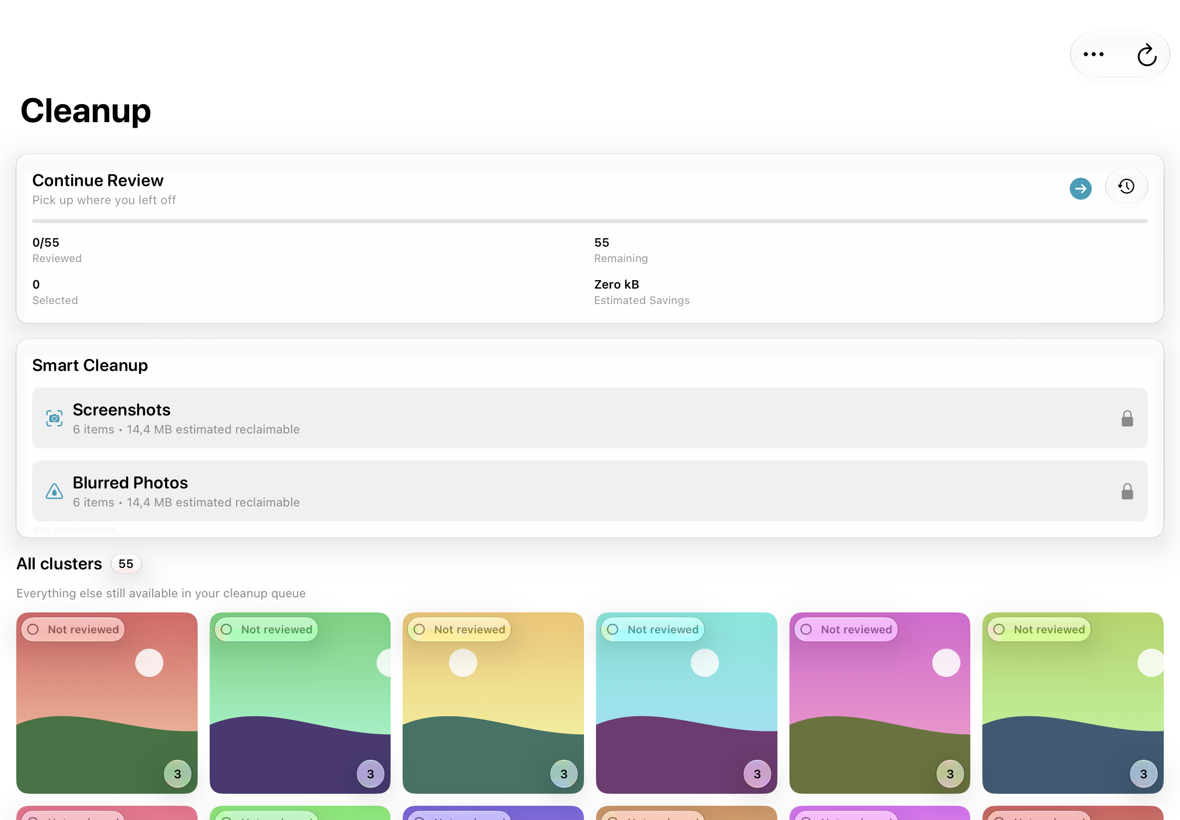
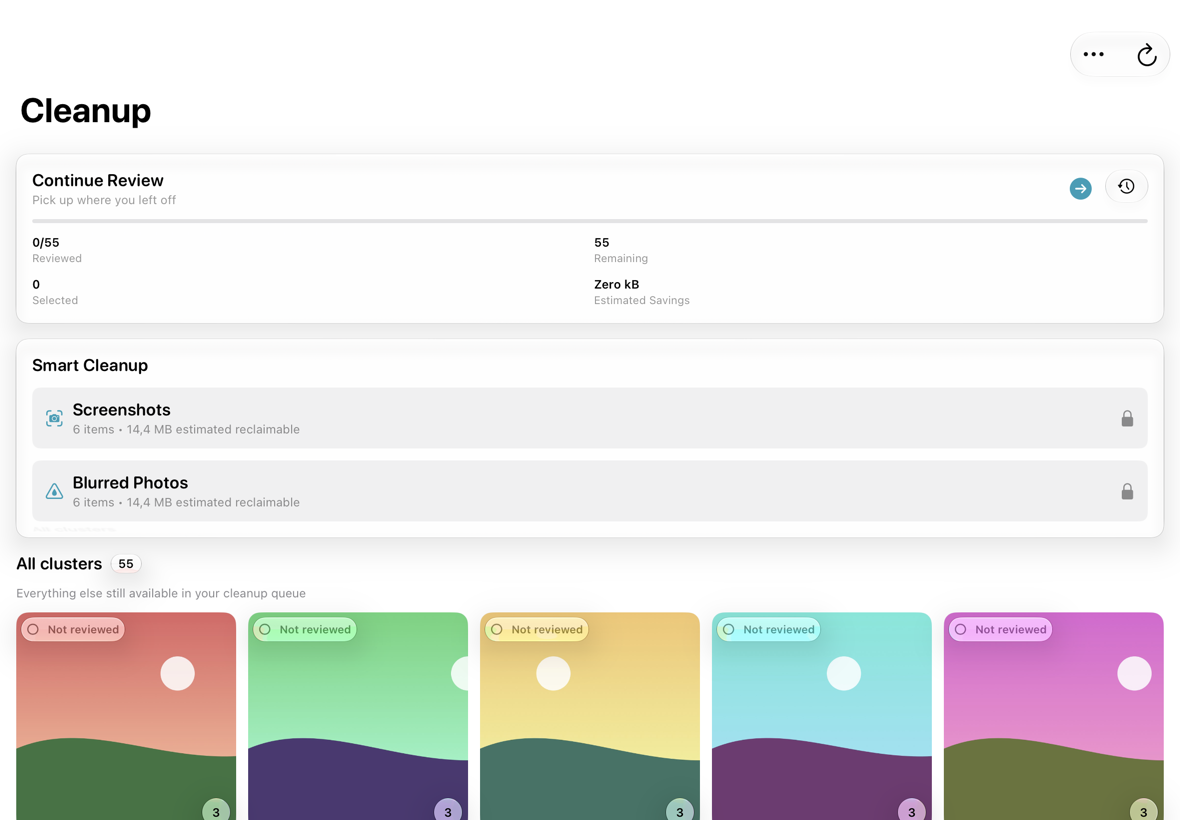
🐛 DesignSystem: count padding and gaps in the iPad grid width
Codex review of #265: the column range divided the whole width by the
tile limits, so 9 columns at 1376 pt gave 139 pt tiles in Cleanup, under
the 150 pt minimum. The range now subtracts the screen padding (32 pt)
and the gaps (12 pt): 1180 pt gets 4-7 columns, default 5; 1376 pt gets
5-8, default 6. The test checks tile widths with the same padding and
gaps, and ADR-0005 and the captures show the new defaults.

Changed region(s): [[0.0, 0.7317, 1.0, 1.0]]

diff --git a/Packages/DesignSystem/Sources/DesignSystem/Layout/AdaptivePhotoGridLayout.swift b/Packages/DesignSystem/Sources/DesignSystem/Layout/AdaptivePhotoGridLayout.swift
@@ -25,19 +25,34 @@ public struct AdaptivePhotoGridLayoutPolicy: Equatable, Sendable {
         public static let maximum: CGFloat = 320
         /// The width the default column count aims for.
         public static let preferred: CGFloat = 200
+        /// Side padding of a grid screen, both sides together (Cleanup: 16 + 16).
+        public static let containerInset: CGFloat = 32
+        /// The widest gap between 2 tiles in a grid screen (Cleanup: 12 pt).
+        public static let gap: CGFloat = 12
+
+        /// The tile width with `columns` columns in a container of `width` points.
+        public static func tileWidth(columns: Int, containerWidth width: CGFloat) -> CGFloat {
+            (width - containerInset - CGFloat(columns - 1) * gap) / CGFloat(columns)
+        }
     }
 
     /// The regular-width policy for a container of `width` points: as many
     /// columns as keep each tile between ``TileWidth/minimum`` and
-    /// ``TileWidth/maximum``, defaulting to about ``TileWidth/preferred``.
+    /// ``TileWidth/maximum``, after the screen's padding and gaps, defaulting
+    /// to about ``TileWidth/preferred``.
     ///
     /// Falls back to ``regular`` when the width is unknown or too small to hold
     /// 2 minimum tiles.
     public static func regular(containerWidth width: CGFloat?) -> AdaptivePhotoGridLayoutPolicy {
-        guard let width, width.isFinite, width >= TileWidth.minimum * 2 else { return .regular }
-        let most = max(2, Int((width / TileWidth.minimum).rounded(.down)))
-        let fewest = min(most, max(2, Int((width / TileWidth.maximum).rounded(.up))))
-        let preferred = Int((width / TileWidth.preferred).rounded())
+        guard let width, width.isFinite,
+              TileWidth.tileWidth(columns: 2, containerWidth: width) >= TileWidth.minimum
+        else { return .regular }
+        // n tiles and n - 1 gaps fit in the width without the padding:
+        // n * tile + (n - 1) * gap <= width - inset  <=>  n <= (width - inset + gap) / (tile + gap)
+        let usable = width - TileWidth.containerInset + TileWidth.gap
+        let most = max(2, Int((usable / (TileWidth.minimum + TileWidth.gap)).rounded(.down)))
+        let fewest = min(most, max(2, Int((usable / (TileWidth.maximum + TileWidth.gap)).rounded(.up))))
+        let preferred = Int((usable / (TileWidth.preferred + TileWidth.gap)).rounded())
         return AdaptivePhotoGridLayoutPolicy(
             columnCounts: fewest...most,
             defaultColumnCount: min(max(preferred, fewest), most)

diff --git a/Packages/DesignSystem/Tests/DesignSystemTests/AdaptivePhotoGridLayoutTests.swift b/Packages/DesignSystem/Tests/DesignSystemTests/AdaptivePhotoGridLayoutTests.swift
@@ -19,11 +19,11 @@ struct AdaptivePhotoGridLayoutTests {
 struct AdaptivePhotoGridWidthTests {
     @Test(arguments: [
         // width, range, default
-        (CGFloat(820), 3...5, 4), // iPad (A16) portrait
+        (CGFloat(820), 3...4, 4), // iPad (A16) portrait
         (834, 3...5, 4), // iPad Pro 11-inch portrait
         (1_024, 4...6, 5), // iPad Air 13-inch portrait
-        (1_180, 4...7, 6), // iPad (A16) landscape
-        (1_376, 5...9, 7), // iPad Pro 13-inch landscape
+        (1_180, 4...7, 5), // iPad (A16) landscape
+        (1_376, 5...8, 6), // iPad Pro 13-inch landscape
     ])
     func testRangeAndDefaultFollowTheWidth(width: CGFloat, range: ClosedRange<Int>, defaultCount: Int) {
         let policy = AdaptivePhotoGridLayoutPolicy.regular(containerWidth: width)
@@ -35,14 +35,15 @@ struct AdaptivePhotoGridWidthTests {
     func testEveryChoiceKeepsTilesBetweenTheLimits(width: CGFloat) {
         let policy = AdaptivePhotoGridLayoutPolicy.regular(containerWidth: width)
         for columns in policy.columnCounts {
-            let tile = width / CGFloat(columns)
+            // After Cleanup's 2 × 16 pt padding and 12 pt gaps, the widest of the grid screens.
+            let tile = (width - 32 - CGFloat(columns - 1) * 12) / CGFloat(columns)
             #expect(tile >= AdaptivePhotoGridLayoutPolicy.TileWidth.minimum)
             #expect(tile <= AdaptivePhotoGridLayoutPolicy.TileWidth.maximum)
         }
     }
 
     /// Unknown, broken or tiny widths keep today's regular range.
-    @Test(arguments: [nil, CGFloat.nan, CGFloat.infinity, 0, 200])
+    @Test(arguments: [nil, CGFloat.nan, CGFloat.infinity, 0, 200, 340])
     func testUnusableWidthsKeepTheFixedRegularRange(width: CGFloat?) {
         #expect(AdaptivePhotoGridLayoutPolicy.regular(containerWidth: width) == .regular)
     }

diff --git a/Docs/adr/0005-ipad-layout.md b/Docs/adr/0005-ipad-layout.md
@@ -31,10 +31,11 @@ content to the width with 2 shared metrics in `DesignSystem/Layout/`:
   width. In compact width it does nothing, so iPhone layout does not change.
   PR 4 applies it screen by screen.
 - **Width-based grids.** In regular width the column range comes from the
-  container width, so each tile stays between 150 and 320 pt. The default aims at
-  200 pt tiles: 4 columns at 820–834 pt, 5 at 1024 pt, 6 at 1180 pt, 7 at
-  1376 pt. The app measures the width once per window and once per sheet with
-  `dsMeasuresPhotoGridWidth()`. Compact width keeps 1–2 columns.
+  container width, so each tile stays between 150 and 320 pt after the screen's
+  padding (32 pt) and gaps (12 pt). The default aims at 200 pt tiles: 4 columns
+  at 820–834 pt, 5 at 1024 and 1180 pt, 6 at 1376 pt. The app measures the
+  width once per window and once per sheet with `dsMeasuresPhotoGridWidth()`.
+  Compact width keeps 1–2 columns.
 - The user's regular-width column choice (`photoGrid.columns.regular`) keeps its
   meaning, a preferred count, clamped to the range of the current width. No
   shipped build wrote this key: iPhone is portrait-only and iPad ran in an

diff --git a/Docs/images/ipad/after-pr3/README.md b/Docs/images/ipad/after-pr3/README.md
@@ -1,5 +1,5 @@
 # Grids after PR 3
 
 iPad (A16), landscape (1180 × 820 pt), native mode, light, 1×. Compare with
-`../audit/ipad-a16-landscape-light/`: the same screens had 4 columns, now 6.
+`../audit/ipad-a16-landscape-light/`: the same screens had 4 columns, now 5.
 Portrait (820 pt) keeps 4 columns. iPhone (compact width) does not change.
